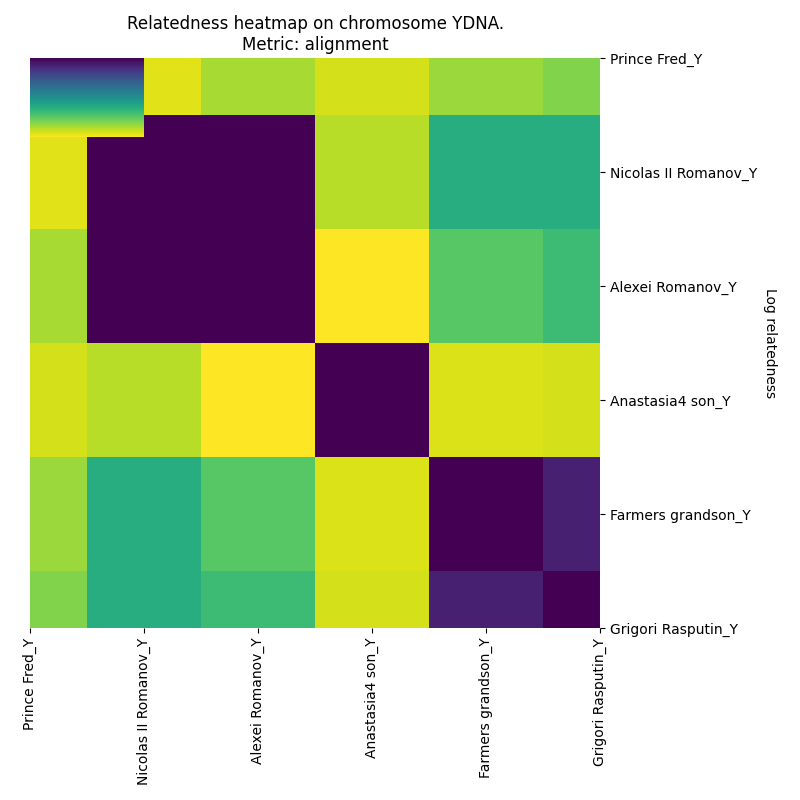
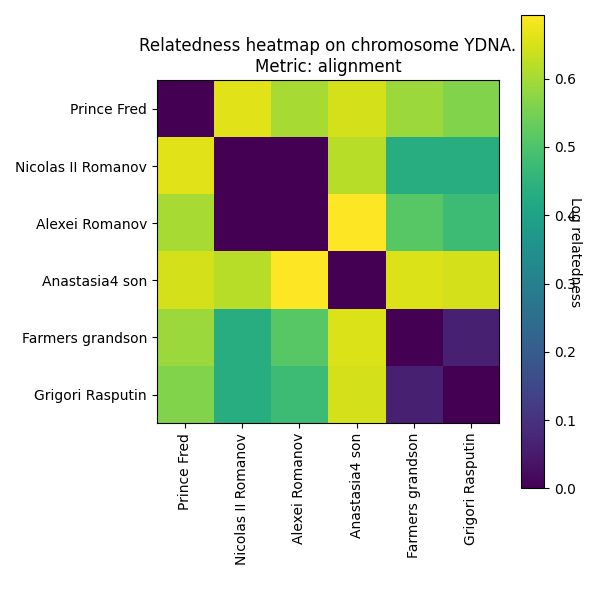
error handling

diff --git a/src/partiiiprograms/DistanceMatrixPlotter.py b/src/partiiiprograms/DistanceMatrixPlotter.py
@@ -103,8 +103,9 @@ class Matrix_File:
         row_lengths = {len(row) for row in data}
         if len(row_lengths) > 1 or row_lengths == {1}:
             sys.exit(f"Delimiter issues. Rows read have length(s) {row_lengths}")
+        labels = np.array(data[0][1:])        
+
         
-        labels = np.array(data[0][1:])
         data_dims = len(data) - 1
         data_array = np.zeros((data_dims, data_dims))
         
@@ -116,6 +117,21 @@ class Matrix_File:
                     data_array[i][j] = data[i+1][j+1]
                 except ValueError:
                     data_array[i][j] = 0.0  # this position contains "" in the input data
+        
+        chromosome_tag = self.get_name()[0]
+        for i, label in enumerate(labels):
+            label_terms = label.split("_")
+            while chromosome_tag not in label_terms:
+                chromosome_tag = str(input(
+                    f"The matrix row/column labels do not match the chromosome "
+                    f"tag '{self.get_name()[0]}' in the file name. From the matrix data label {label}, "
+                    f"what characters represent the chromosome name? (type abort to exit) "
+                    ))
+                if chromosome_tag.lower() == "abort":
+                    sys.exit("Program aborted.")
+            label_terms.pop(label_terms.index(chromosome_tag))
+            label_trim = "_".join(label_terms)
+            labels[i] = label_trim
         
         return data_array, labels
 
@@ -146,50 +162,12 @@ def custom_heatmap(data, labels, chromosome, metric):
     for i in range(len(data)):
         for j in range(len(data)):
             data[i][j] = np.float64(math.log(data[i][j] + 1))
-    
-    # unique values (delete later)
-    print("\n", "Number of pairwise comparisons in matrix: ", int(len(data.flatten()) / 2 - len(data)))
-    print("Number of unique values in matrix: ", len(np.unique(data.flatten())), "\n")
 
-    
-    # """
-    # Create a heatmap from a numpy array and two lists of labels.
-
-    # Parameters
-    # ----------
-    # data
-    #     A 2D numpy array of shape (M, N).
-    # row_labels
-    #     A list or array of length M with the labels for the rows.
-    # col_labels
-    #     A list or array of length N with the labels for the columns.
-    # ax
-    #     A `matplotlib.axes.Axes` instance to which the heatmap is plotted.  If
-    #     not provided, use current Axes or create a new one.  Optional.
-    # cbar_kw
-    #     A dictionary with arguments to `matplotlib.Figure.colorbar`.  Optional.
-    # cbarlabel
-    #     The label for the colorbar.  Optional.
-    # """
-        
-
-    # # Plot the heatmap
-    # im = ax.imshow(data)
-    
-    # # Create colorbar
-    # cbar = ax.figure.colorbar(im, ax)
-    # cbar.ax.set_ylabel("Log relatedness", rotation=-90, va="bottom")
-
-    # xticks, yticks = list(labels), list(labels)
-    # plt.xticks(range(len(labels)), xticks, rotation=90)
-    # plt.yticks(range(len(labels)), yticks)
-    
-    # ax.spines[:].set_visible(False)
-
-
-    fig, ax = plt.subplots(figsize=(8, 8))
-    pos = ax.imshow(data)
-    fig.colorbar(pos)
+    fig, ax = plt.subplots(figsize=(6, 6))
+    im = ax.imshow(data)
+    cbar = ax.figure.colorbar(im)#, panchor=(0., 0.))
+    cbar.ax.set_ylabel("Log relatedness", rotation=-90)
+    # fig.colorbar(pos)
     xticks, yticks = list(labels), list(labels)
     plt.xticks(range(len(labels)), xticks, rotation=90)
     plt.yticks(range(len(labels)), yticks)
